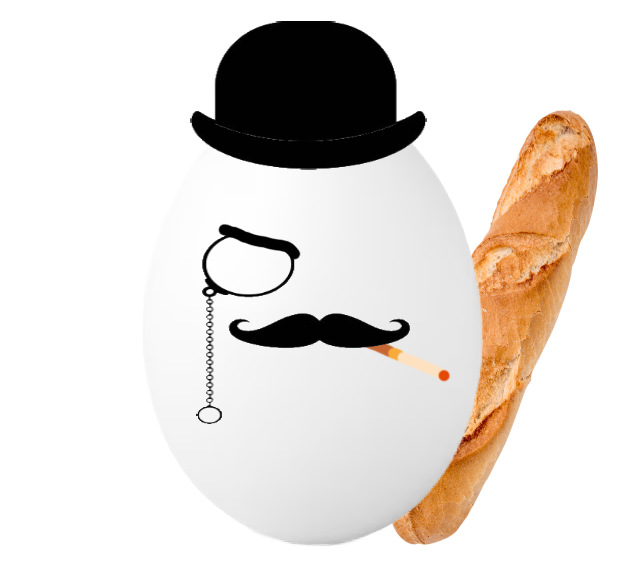
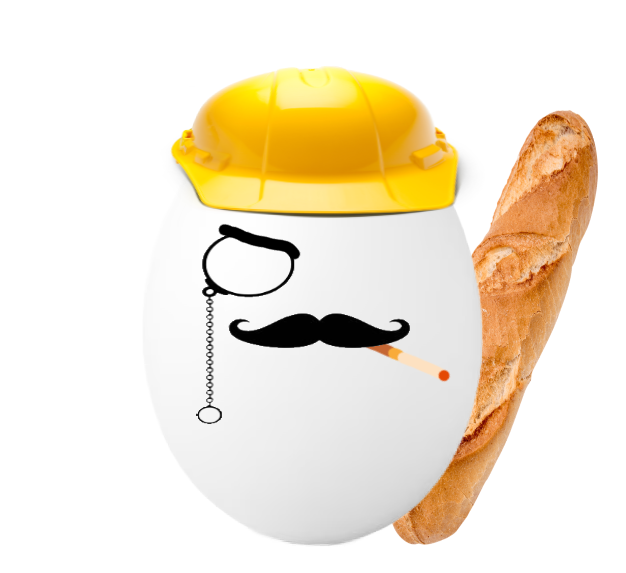
redrew some images, completed steps up to step 6 of alien projectile spawn.

Changed region(s): [[0.2732, 0.0297, 0.7588, 0.3857]]

diff --git a/src/GamePanel.java b/src/GamePanel.java
@@ -5,7 +5,9 @@ import java.awt.event.ActionEvent;
 import java.awt.event.ActionListener;
 import java.awt.event.KeyEvent;
 import java.awt.event.KeyListener;
+import java.awt.image.BufferedImage;
 
+import javax.imageio.ImageIO;
 import javax.swing.JPanel;
 import javax.swing.Timer;
 
@@ -19,7 +21,12 @@ public class GamePanel extends JPanel implements ActionListener, KeyListener{
 	Font scaryFont = new Font("Dialog", Font.BOLD, 39);
 	Font descriptionFont = new Font("Impact", Font.ITALIC, 32);
 	Timer frameDraw;
-	Rocketship rocket = new Rocketship(250,700,50,50);
+	Timer alienSpawn;
+	Rocketship rocket = new Rocketship(250,700,150,120);
+	ObjectManager man = new ObjectManager(rocket);
+	public static BufferedImage image;
+	public static boolean needImage = true;
+	public static boolean gotImage = false;	
 	@Override
 	public void paintComponent(Graphics g){
 		if(currentState == MENU){
@@ -34,7 +41,9 @@ public class GamePanel extends JPanel implements ActionListener, KeyListener{
 	public GamePanel() {
 		frameDraw = new Timer(1000/60, this);
 		frameDraw.start();
-
+		if (needImage) {
+		    loadImage ("bg.png");
+		}
 	}
 	@Override
 	public void actionPerformed(ActionEvent arg0) {
@@ -55,7 +64,7 @@ public class GamePanel extends JPanel implements ActionListener, KeyListener{
 		
 	}
 	void updateGameState() {
-		
+		man.update();
 	}
 	void updateEndState() {
 		
@@ -81,11 +90,15 @@ public class GamePanel extends JPanel implements ActionListener, KeyListener{
 	}
 	void drawGameState(Graphics g) {
 		g.setFont(scaryFont);
+		if (gotImage) {
+			g.drawImage(image, 0, 0, 500, 800, null);
+		} else {
 		g.setColor(Color.black);
 		g.fillRect(0, 0, LeagueInvaders.WIDTH, LeagueInvaders.HEIGHT);
+		}
 		g.setColor(Color.white);
 		g.drawString("gameplay", 60, 200);
-		rocket.draw(g);
+		man.draw(g);
 	}
 	void drawEndState(Graphics g) {
 		g.setColor(new Color(120,12,23));
@@ -104,7 +117,13 @@ public class GamePanel extends JPanel implements ActionListener, KeyListener{
 		if (e.getKeyCode()==KeyEvent.VK_ENTER) {
 		    if (currentState == END) {
 		        currentState = MENU;
-		    } else {
+		    } else {    
+		        if(currentState==MENU) {
+		        	startGame();
+		        }
+		        if(currentState==GAME) {
+		        	alienSpawn.stop();
+		        }
 		        currentState++;
 		    }
 		}
@@ -149,6 +168,21 @@ public class GamePanel extends JPanel implements ActionListener, KeyListener{
 	public void keyTyped(KeyEvent e) {
 		// TODO Auto-generated method stub
 		
+	}
+	void loadImage(String imageFile) {
+	    if (needImage) {
+	        try {
+	            image = ImageIO.read(this.getClass().getResourceAsStream(imageFile));
+		    gotImage = true;
+	        } catch (Exception e) {
+	            
+	        }
+	        needImage = false;
+	    }
+	}
+	void startGame() {
+		alienSpawn = new Timer(1000, man);
+		alienSpawn.start();
 	}
 	
 }

diff --git a/src/Rocketship.java b/src/Rocketship.java
@@ -1,49 +1,60 @@
 import java.awt.Color;
 import java.awt.Graphics;
+import java.awt.image.BufferedImage;
+
+import javax.imageio.ImageIO;
 
 public class Rocketship extends GameObject { 
 	int movement = 5;
+		
 	public Rocketship(int x,int y,int width,int height) {
 		super(x, y, width, height);
 		speed=4;
+		if (needImage) {
+		    loadImage ("le eg.png");
+		}
 	}
 	
 	void draw(Graphics g) {
-        g.setColor(Color.BLUE);
-        g.fillRect(x, y, width, height);
+        if (gotImage) {
+        	g.drawImage(image, x, y, width, height, null);
+        } else {
+        	g.setColor(Color.BLUE);
+        	g.fillRect(x, y, width, height);
+        }
         move();
 	}
 	public void move() {
 		switch(movement) {
 		case 1:
 			x-=speed;
-	        if(x<-50) {
+	        if(x<-150) {
 	        	x=500;
 	        }
 	        y-=speed;
-	        if(y<-50) {
+	        if(y<-120) {
 	        	y=800;
 	        }
 	    break;
 		case 2:
 			 y-=speed;
-		        if(y<-50) {
+		        if(y<-120) {
 		        	y=800;
 		        }
 	    break;
 		case 3:
 			y-=speed;
-		        if(y<-50) {
+		        if(y<-120) {
 		        	y=800;
 		        }
 	        x+=speed;
 	        if(x>500) {
-	        	x=-50;
+	        	x=-150;
 	        }       
 	    break;
 		case 4:
 			x-=speed;
-	        if(x<-50) {
+	        if(x<-150) {
 	        	x=500;
 	        }
 	    break;
@@ -53,33 +64,33 @@ public class Rocketship extends GameObject {
 		case 6:
 			x+=speed;
 	        if(x>500) {
-	        	x=-50;
+	        	x=-150;
 	        }       
 	    break;
 		case 7:
 			x-=speed;
-	        if(x<-50) {
+	        if(x<-150) {
 	        	x=500;
 	        }
 	        y+=speed;
 	        if(y>800) {
-	        	y=-50;
+	        	y=-120;
 	        }
 	    break;
 		case 8:
 			y+=speed;
 	        if(y>800) {
-	        	y=-50;
+	        	y=-120;
 	        }
 	    break;
 		case 9:
 			x+=speed;
 	        if(x>500) {
-	        	x=-50;
+	        	x=-150;
 	        }       
 	        y+=speed;
 	        if(y>800) {
-	        	y=-50;
+	        	y=-120;
 	        }
 	    break;
 	        
@@ -103,4 +114,18 @@ public class Rocketship extends GameObject {
 	public void down() {
         y+=speed;
     }
+	 void loadImage(String imageFile) {
+		    if (needImage) {
+		        try {
+		            image = ImageIO.read(this.getClass().getResourceAsStream(imageFile));
+			    gotImage = true;
+		        } catch (Exception e) {
+		            
+		        }
+		        needImage = false;
+		    }
+		}
+	 public Projectile getProjectile() {
+	        return new Projectile(x+width/2, y, 20, 20);
+	} 
 }

diff --git a/src/ObjectManager.java b/src/ObjectManager.java
@@ -1,7 +1,10 @@
+import java.awt.Graphics;
+import java.awt.event.ActionEvent;
+import java.awt.event.ActionListener;
 import java.util.ArrayList;
 import java.util.Random;
 
-public class ObjectManager {
+public class ObjectManager implements ActionListener{
 Rocketship rocket;
 ArrayList<Projectile> projectsList = new ArrayList<>();
 ArrayList<Alien> aliens = new ArrayList<>();
@@ -22,10 +25,43 @@ void update() {
 			a.IsActive=false;
 		}
 	}
+	for(Projectile a:projectsList) {
+		a.update();
+		if(a.y>800) {
+			a.IsActive=false;
+		}
+	}
 }
 void purgeObjects() {
 	for(int i = aliens.size()-1;i>-1;i--) {
-		aliens.get(i).update();
+		if(aliens.get(i).IsActive==false) {
+			aliens.remove(i);
+		}
+	}
+	for(int i = aliens.size()-1;i>-1;i--) {
+		if(aliens.get(i).IsActive==false) {
+			aliens.remove(i);
+		}
+	}
+	for(int i = projectsList.size()-1;i>-1;i--) {
+		if(projectsList.get(i).IsActive==false) {
+			projectsList.remove(i);
+		}
 	}
 }
+void draw(Graphics g) {
+	rocket.draw(g);
+	for(Alien a:aliens) {
+		a.draw(g);
+	}
+	for(Projectile a:projectsList) {
+		a.draw(g);
+	}
+}
+@Override
+public void actionPerformed(ActionEvent arg0) {
+	// TODO Auto-generated method stub
+	addAlien();
+}
+
 }

diff --git a/src/Projectile.java b/src/Projectile.java
@@ -1,11 +1,34 @@
 import java.awt.Color;
 import java.awt.Graphics;
+import java.util.Random;
+
+import javax.imageio.ImageIO;
 
 public class Projectile extends GameObject{
-
+Random ran = new Random();
 	public Projectile(int x, int y, int width, int height) {
 		super(x, y, width, height);
 		speed=10;
+		if (needImage) {
+			switch(ran.nextInt(5)) {
+			case 0:
+				loadImage ("bullet.png");
+				break;
+			case 1:
+				loadImage ("tomato.png");
+				break;
+			case 2:
+				loadImage ("syringe.png");
+				break;
+			case 3:
+				loadImage ("nokia.png");
+				break;
+			case 4:
+				loadImage ("face.png");
+				break;
+			}
+		    
+		}
 	}
 	void update() {
 		y-=speed;
@@ -14,5 +37,16 @@ public class Projectile extends GameObject{
 	    g.setColor(new Color(237,137,83));
 	    g.fillRect(x, y, width, height);
 	    //bullet
+	}
+	void loadImage(String imageFile) {
+	    if (needImage) {
+	        try {
+	            image = ImageIO.read(this.getClass().getResourceAsStream(imageFile));
+		    gotImage = true;
+	        } catch (Exception e) {
+	            
+	        }
+	        needImage = false;
+	    }
 	}
 }

diff --git a/src/Alien.java b/src/Alien.java
@@ -1,12 +1,18 @@
 import java.awt.Color;
 import java.awt.Graphics;
+import java.awt.image.BufferedImage;
+
+import javax.imageio.ImageIO;
 
 public class Alien extends GameObject
 {
-
+	
 	public Alien(int x, int y, int width, int height) {
 		super(x, y, width, height);
 		speed=1;
+		if (needImage) {
+		    loadImage ("vadre.png");
+		}
 	}
 void update() {
 	y+=speed;
@@ -14,5 +20,16 @@ void update() {
 void draw(Graphics g) {
     g.setColor(new Color(20,20,20));
     g.fillRect(x, y, width, height);
+}
+void loadImage(String imageFile) {
+    if (needImage) {
+        try {
+            image = ImageIO.read(this.getClass().getResourceAsStream(imageFile));
+	    gotImage = true;
+        } catch (Exception e) {
+            
+        }
+        needImage = false;
+    }
 }
 }

diff --git a/src/GameObject.java b/src/GameObject.java
@@ -1,5 +1,11 @@
+import java.awt.image.BufferedImage;
+
+import javax.imageio.ImageIO;
 
 public class GameObject {
+	public static BufferedImage image;
+	public static boolean needImage = true;
+	public static boolean gotImage = false;
 	 int x;
 	 int y;
 	 int width;
@@ -16,4 +22,5 @@ public class GameObject {
 	 void update() {
 		 
 	 }
+	
 }
